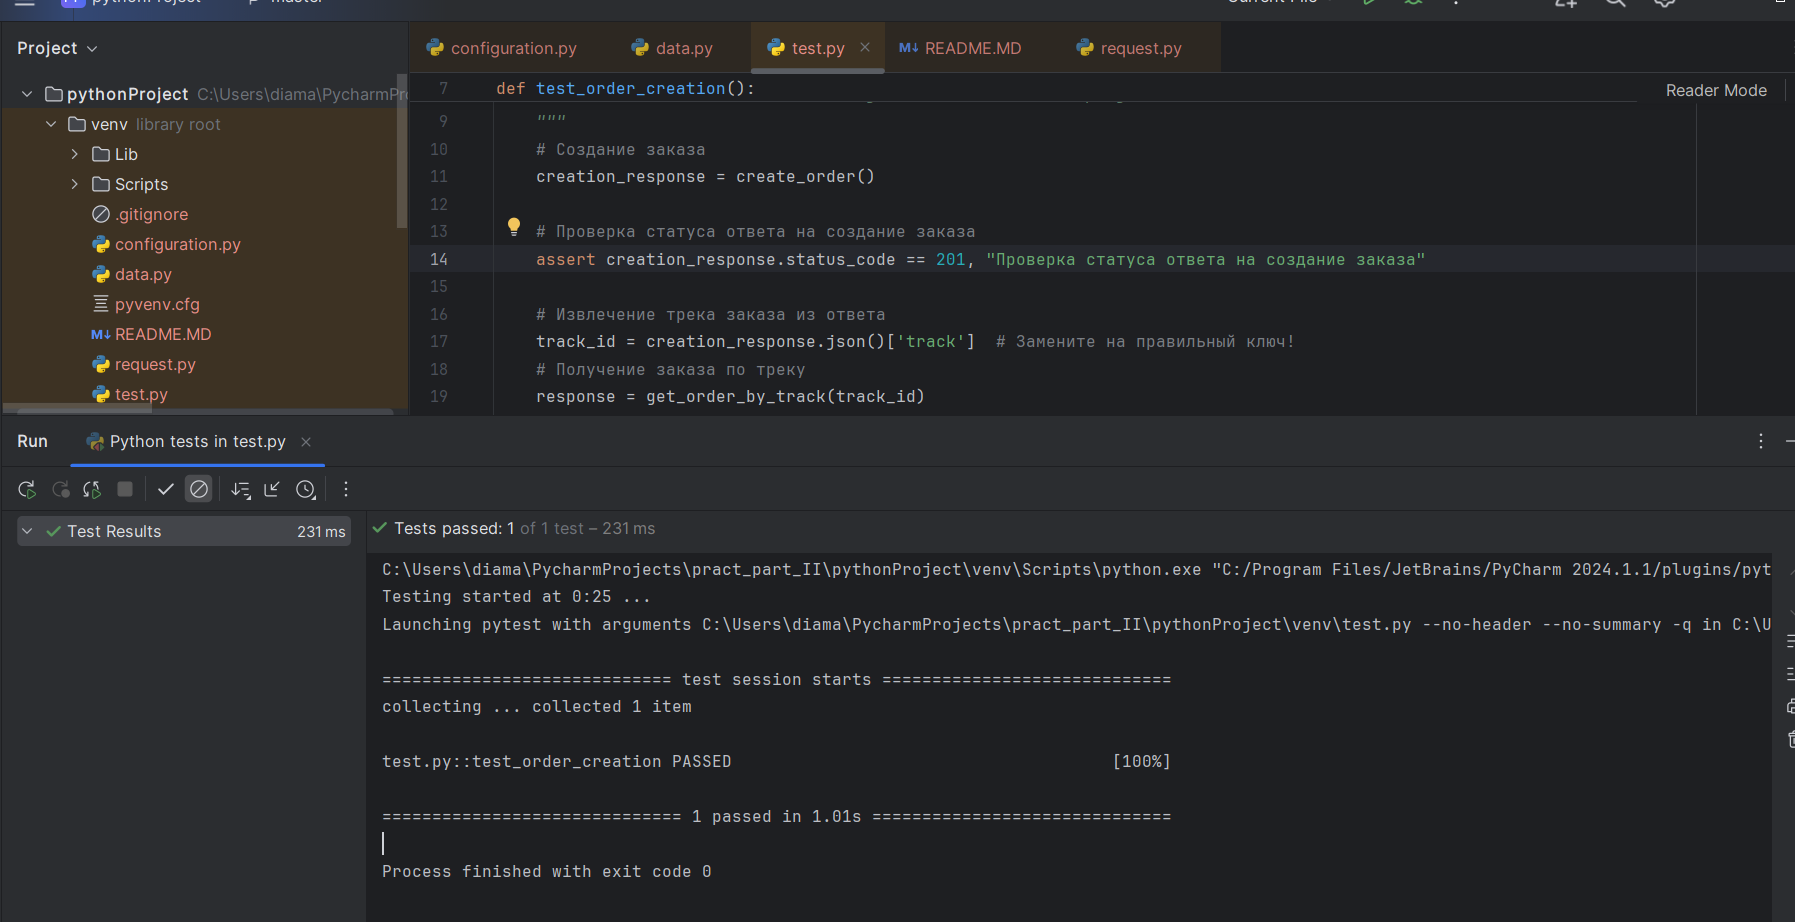
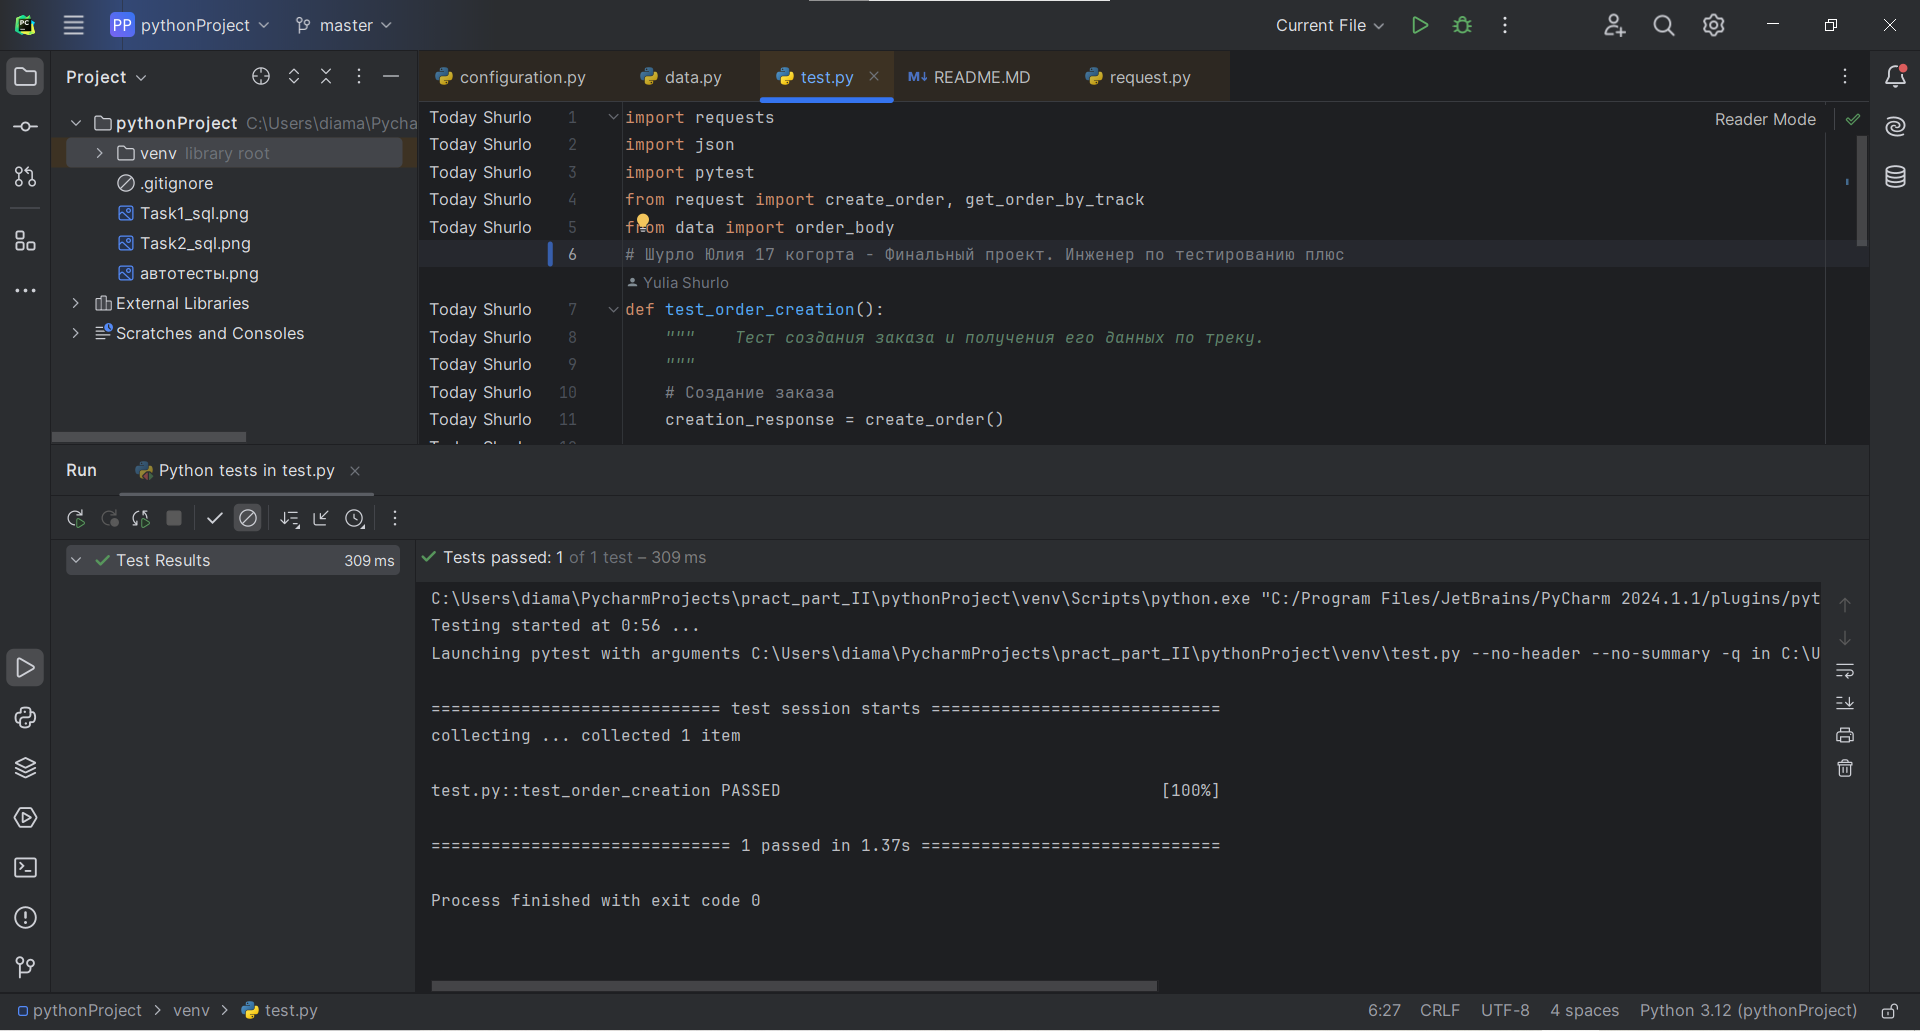
Добавление скрина

diff --git a/venv/test.py b/venv/test.py
@@ -3,7 +3,7 @@ import json
 import pytest
 from request import create_order, get_order_by_track
 from data import order_body
-
+# Шурло Юлия 17 когорта - Финальный проект. Инженер по тестированию плюс
 def test_order_creation():
     """    Тест создания заказа и получения его данных по треку.
     """
